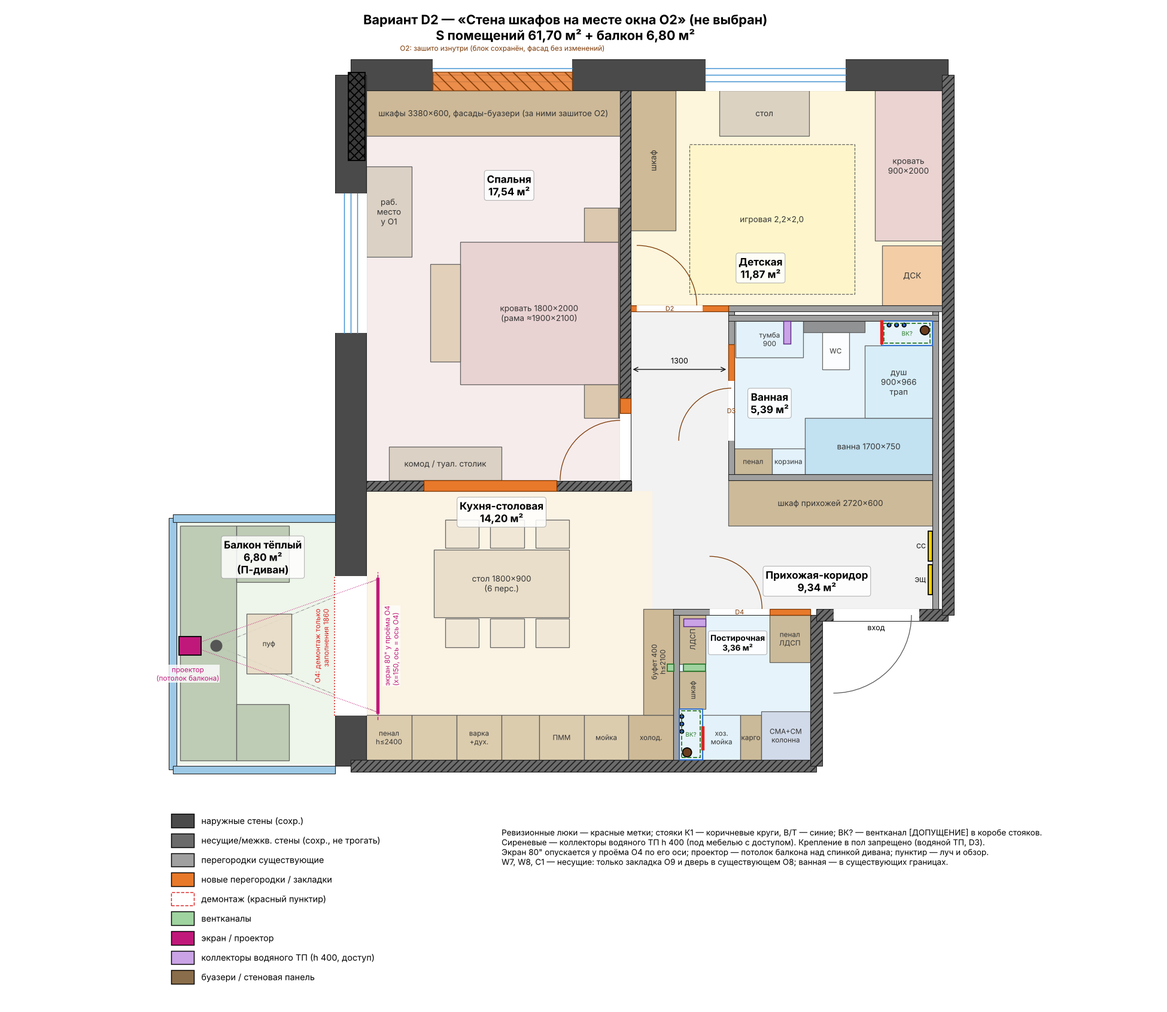
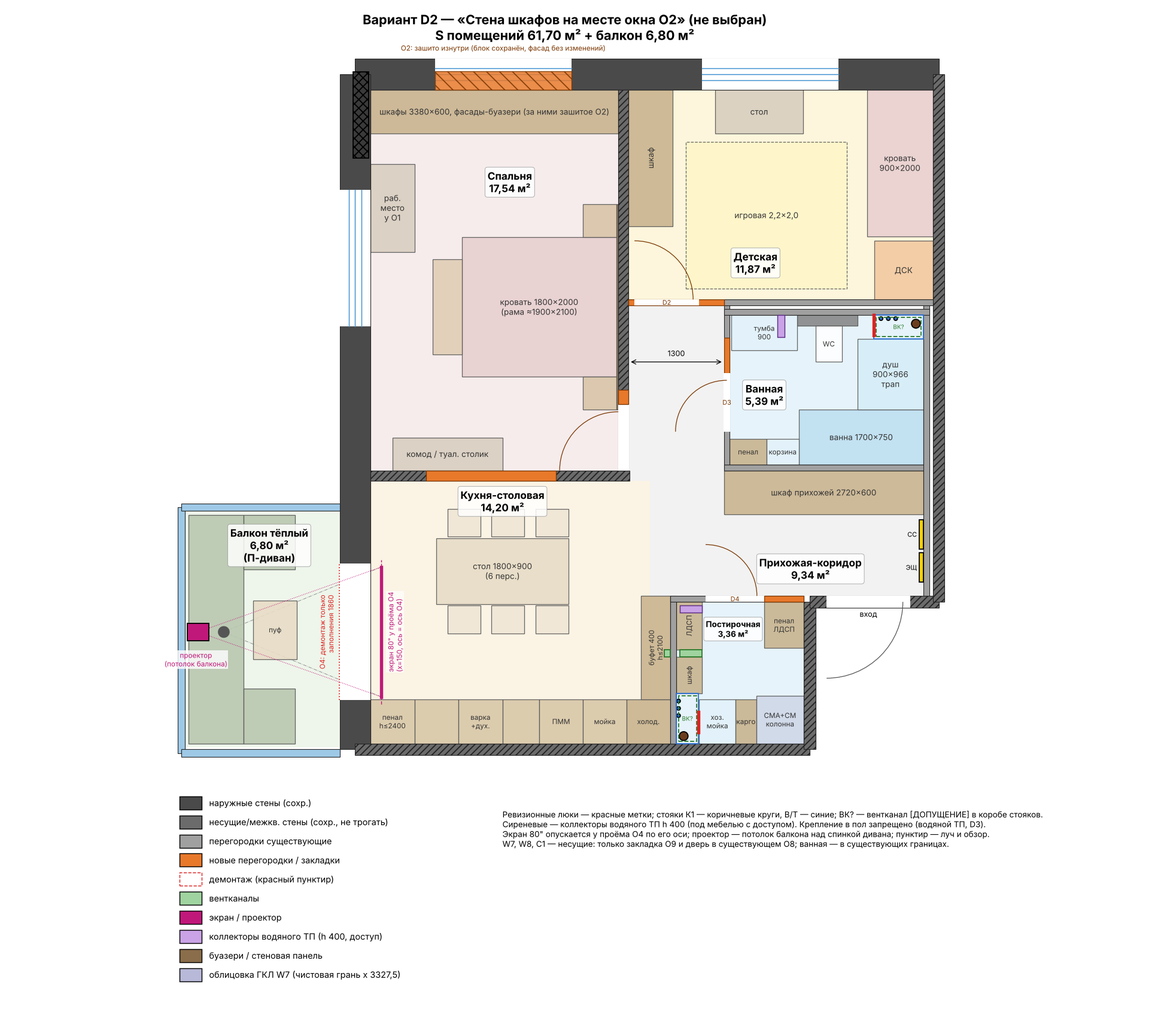
Design project: norm-control fixes in progress (finishes, planning, viz)
Claude-Session: https://claude.ai/code/session_011sUkeYXADW4VjjUfNdKrqY

diff --git a/apartment-project/tools/calc_sewer_slopes.py b/apartment-project/tools/calc_sewer_slopes.py
@@ -1,189 +1,171 @@
 #!/usr/bin/env python3
-"""pib-engineering: расчёт уклонов внутренней канализации (ВК) квартиры — вариант D1.
+"""pib-engineering: расчёт уклонов внутренней канализации (ВК), вариант планировки D1.
+
+Редакция 2026-10-10: решение D26 «трап в уровень с полом» (требование заказчика) + НК-05.
 
 Что считает:
-  * длину каждой трассы (по ломаной в плане + вертикальные участки не учитываются в уклоне);
-  * перепад при проектном уклоне, отметку лотка у прибора и у стояка;
-  * проверку «хватает ли напора» (лоток выпуска прибора ≥ лоток трассы в начале);
-  * проверку защитного слоя над трубой в подиуме (участки под полом, по которому ходят);
-  * проверку высоты цоколя мебели (участки в цоколях кухни/постирочной);
-  * чувствительность: какая отметка чистого пола ванной (подиум) нужна при разной
-    отметке лотка врезки в стояк К1 (отметка неизвестна — вопрос на обмер).
+  * трассы S1–S7: длина, перепад, лоток у прибора и у стояка, предельная отметка лотка
+    отвода тройника К1 («тройник ≤»), при которой прибор идёт самотёком;
+  * проектный уклон Ø50 — НОРМАЛЬНЫЙ 0,03 (СП 30.13330.2020, разд. 8); Ø110 — 0,02 (нормальный);
+    0,02 для Ø50 — только как допустимый минимум для S1 (L ≤ 0,3 м, в кармане/коробе, без поворотов
+    в горизонтали) и только если лоток U6 по обмеру не проходит при 0,03;
+  * сценарии пола ванной:
+      LEVEL (D26, база): сухая зона ±0 по существующей стяжке (−20) + пирог плитки 20;
+          в зоне душа и по трассе S1 до стояка — ЛОКАЛЬНЫЙ демонтаж стяжки до плиты (−100)
+          после тепловизора; уклон пола душа 1,5 % от линии стекла (±0) к линейному трапу;
+      WALL (D26, вариант 2): пристенный трап в облицовке VK-C1; демонтаж стяжки только в полосе
+          под облицовкой; пол душа по старой стяжке: −2 у стены … +10 на линии стекла;
+      PODIUM (D18, запасной): пол ванной +F, всё поверх стяжки −20;
+  * таблицу «лоток U6 → вариант».
 
-Отметки — мм от УЧП квартиры (±0.000 = плита +100). Верх существующей стяжки с водяным
-ТП = −20 (резать/штробить запрещено, D3/D4) → труба не может лежать ниже −20 + стенка.
-Нормы: СП 30.13330.2020 (уклоны: Ø50 — не менее 0,02 (норм. 0,03), Ø110 — не менее
-0,012 (норм. 0,02)); защитный слой над трубой в подиуме — принят 30 мм фиброармированной
-стяжки + 20 мм гидроизоляция/клей с матом ТП/плитка [ДОПУЩЕНИЕ, подтверждает pib-finishes].
-
-Запуск: python3 tools/calc_sewer_slopes.py   (печатает таблицы; функции импортирует gen_engineering.py)
+Отметки — мм от УЧП (±0.000 = плита +100). Плита −100, верх существующей стяжки −20.
+Запуск: python3 tools/calc_sewer_slopes.py
 """
 import math
 
-SCREED_TOP = -20          # верх существующей стяжки с водяным ТП
-COVER = 50                # над верхом трубы до чистого пола в подиуме (30 стяжка + 20 гидро/клей/плитка)
-PLINTH_TOP = 150          # верх зоны цоколя мебели (цоколь 160)
-TEE_ASSUMED = -20         # [ДОПУЩЕНИЕ] лоток отвода тройника К1 U1/U6 (обмер!)
-FFL_BATH = 80             # подиум ванной (planning.json D1)
-SHOWER_SLOPE = 0.015      # уклон пола душа к лотку
-SHOWER_ENTRY_X = 6641     # вход в душ (плоскость стекла) — отметка = пол ванной
-DRAIN_X = 7400            # ось линейного лотка (перед облицовкой W14 толщ. ≈ 95 с плиткой)
-TRAP_H = 70               # монтажная высота низкого трапа (верх решётки — низ корпуса), паспорт
-TRAP_OUT = 8              # лоток выпуска над низом корпуса трапа
-
-OD = {50: 50, 110: 110, 40: 40}
+SLAB = -100
+SCREED_TOP = -20
 WALL = 2
+PLINTH_TOP = 150
+I50, I50_MIN, I110 = 0.03, 0.02, 0.02
+SHOWER_SLOPE = 0.015
+SHOWER_ENTRY_X = 6641
+DRAIN_X = 7400            # ось линейного трапа у облицовки VK-C1 (грань x 7446)
+CLAD_X = 7446
+TRAP_OUT = 8              # лоток выпуска над низом корпуса трапа
+BEDDING = 5               # мин. подливка под корпус трапа
+TEE_ASSUMED = -80         # [ДОПУЩЕНИЕ] отвод тройника К1 на уровне стяжки застройщика (типично 1 этаж: −70…−90); обмер З-04 обязателен (ранее −20 — консервативно для D18)
+TRAP_H_BASE = 65          # база D26-1: ультраплоский трап H ≤ 65
+OD = {50: 50, 110: 110}
+
+# реальные серии низких/ультраплоских трапов — ориентировочно, СВЕРИТЬ ПО ПАСПОРТУ
+TRAPS = [
+    {"model": "Geberit CleanLine20/30 + монтажный комплект низкий", "h": 65, "dn": 40, "q_ls": 0.4, "type": "линейный в пол"},
+    {"model": "TECEdrainline + сифон плоский DN 40", "h": 67, "dn": 40, "q_ls": 0.5, "type": "линейный в пол / пристенный"},
+    {"model": "Alcadrain APZ1101 Low (низкий)", "h": 60, "dn": 40, "q_ls": 0.4, "type": "линейный в пол"},
+    {"model": "Pestan Confluo Premium / Frameless Line с низким сифоном", "h": 70, "dn": 40, "q_ls": 0.5, "type": "линейный в пол / у стены"},
+    {"model": "Viega Advantix Vario (низкий корпус)", "h": 70, "dn": 40, "q_ls": 0.4, "type": "линейный в пол, укорачиваемый"},
+    {"model": "Geberit настенный трап для душа в уровень с полом (в инсталляционной стене)", "h": 80, "dn": 50, "q_ls": 0.5, "type": "пристенный (вариант 2)"},
+]
 
 
-def shower_floor(x, ffl):
-    """Отметка чистого пола в душе (однонаправленный уклон к лотку у W14)."""
+def shower_floor(x, entry=0.0):
     if x <= SHOWER_ENTRY_X:
-        return ffl
-    return ffl - SHOWER_SLOPE * (min(x, DRAIN_X) - SHOWER_ENTRY_X)
+        return entry
+    return entry - SHOWER_SLOPE * (min(x, DRAIN_X) - SHOWER_ENTRY_X)
 
 
-def bath_floor(x, y, ffl):
-    if 6641 <= x <= 7541 and 4550 <= y <= 5516:
-        return shower_floor(x, ffl)
-    return ffl
-
-
-def lines(ffl=FFL_BATH):
-    """Трассы. path: [(x, y, kind_next)], kind — тип участка до следующей точки:
-    free — под ванной / в коробе / в облицовке / в инсталляции (только ограничение по стяжке);
-    podium — под полом с/у, по которому ходят (защитный слой); plinth — в цоколе мебели;
-    trap — узел трапа. z_out — лоток выпуска прибора (абс.)."""
-    grate = shower_floor(DRAIN_X, ffl)
+def bath_lines(ffl, scenario, trap_h=70, i_shower=I50):
+    """Трассы ванной. ffl — отметка сухой зоны ванной; z_min — нижний предел лотка на трассе."""
+    if scenario == "WALL":
+        grate = -2.0                               # пол у стены по старой стяжке
+        z_min_s1 = SLAB + WALL                     # полоса под облицовкой демонтирована до плиты
+    else:
+        grate = shower_floor(DRAIN_X, ffl)
+        z_min_s1 = (SLAB + WALL) if scenario == "LEVEL" else (SCREED_TOP + WALL)
+    trap_bottom = grate - trap_h
     return [
-        dict(id="S1", fixture="P04 душ: низкий линейный трап у облицовки W14 (выпуск у северного торца)",
-             riser="U6", dn=50, i=0.02, z_out=round(grate - TRAP_H + TRAP_OUT, 1),
-             trap_bottom=round(grate - TRAP_H, 1), grate=round(grate, 1),
-             path=[(7400, 5440, "trap"), (7400, 5516, "free"), (7400, 5666, "free"), (7438, 5666, None)],
-             note="выпуск трапа сразу в короб U10 через грань y=5516; в стояк — в нижнюю точку (эксцентрический переход 110/50, лотки совмещены)"),
-        dict(id="S2", fixture="P03 ванна: сифон у правого торца (x≈7350) → под ванной → в облицовке W14 → короб U10",
-             riser="U6", dn=50, i=0.02, z_out=ffl + 70,
-             path=[(7350, 4175, "free"), (7490, 4175, "free"), (7490, 4550, "free"), (7490, 5516, "free"),
-                   (7490, 5600, "free"), (7438, 5600, "free"), (7438, 5666, None)],
-             note="участок y 4550..5516 — в полости облицовки W14 (душ), под полом не проходит; без соединений в облицовке"),
-        dict(id="S3", fixture="P01 унитаз подвесной (инсталляция, ось x 6250)",
-             riser="U6", dn=110, i=0.02, z_out=ffl + 230 - 55,
-             path=[(6250, 5770, "free"), (6750, 5770, "free"), (6750, 5640, "free"), (7383, 5640, None)],
-             note="в коробе инсталляции и низком коробе-перемычке x 6641..6863 (h до +450 от пола ванной); обход стояков В1/Т3/Т4 (y 5791) с юга"),
-        dict(id="S4", fixture="P02 раковина в тумбе 900 (выпуск +550 от пола ванной)",
-             riser="U6", dn=50, i=0.02, z_out=ffl + 550,
-             path=[(5250, 5815, "free"), (6700, 5815, "free"), (6700, 5640, "free"), (7383, 5640, None)],
-             note="за тумбой над коллектором U14 (верх +400 УЧП) и в коробе инсталляции; над U14 зазор ≥ 50"),
-        dict(id="S5", fixture="P06 мойка кухни (+ ПММ через сифон мойки)",
-             riser="U1", dn=50, i=0.02, z_out=450,
-             path=[(2490, 60, "plinth"), (4090, 60, "free"), (4216, 60, "free"), (4216, 101, None)],
-             note="в цоколе вдоль W3 (W3 не штробить — стена МОП), за ПММ и пеналом холодильника, через W10 (гильза) в короб U5"),
-        dict(id="S6", fixture="P09 хозмойка 450 (выпуск на грани короба U5)",
-             riser="U1", dn=50, i=0.02, z_out=450,
-             path=[(4475, 450, "free"), (4326, 450, "free"), (4326, 101, None)],
-             note="внутри короба U5"),
-        dict(id="S7", fixture="P10 СМА (сифон в карго, + конденсат сушильной машины)",
-             riser="U1", dn=50, i=0.02, z_out=560,
-             path=[(5170, 60, "plinth"), (4475, 60, "free"), (4326, 101, None)],
-             note="в цоколе карго/тумбы хозмойки вдоль W3; вариант — в бывший выпуск WC Ø110 через переход 110/50 под карго"),
+        dict(id="S1", fixture="P04 душ: линейный трап (выпуск у северного торца) → короб U10" if scenario != "WALL" else "P04 душ: пристенный трап в VK-C1 → короб U10",
+             riser="U6", dn=50, i=i_shower, z_out=round(trap_bottom + TRAP_OUT, 1), grate=round(grate, 1), trap_bottom=round(trap_bottom, 1),
+             z_min=z_min_s1, path=[(DRAIN_X if scenario != "WALL" else 7490, 5440), (7400, 5516), (7400, 5666), (7438, 5666)],
+             note="выпуск сразу в короб U10; в стояк — в нижнюю точку (эксцентрический переход 110/50, лотки совмещены)"),
+        dict(id="S2", fixture="P03 ванна: сифон у правого торца → под ванной → полость облицовки VK-C1 → короб U10",
+             riser="U6", dn=50, i=I50, z_out=ffl + 70, z_min=(SLAB + WALL) if scenario in ("LEVEL", "WALL") else (SCREED_TOP + WALL),
+             path=[(7350, 4175), (7490, 4175), (7490, 4550), (7490, 5516), (7490, 5600), (7438, 5600), (7438, 5666)],
+             note="под ванной (ванна на ножках, экран с ревизией H6) и в полости облицовки — под полом не проходит"),
+        dict(id="S3", fixture="P01 унитаз подвесной (инсталляция, ось x 6250)", riser="U6", dn=110, i=I110, z_out=ffl + 230 - 55,
+             z_min=SCREED_TOP + WALL, path=[(6250, 5770), (6750, 5770), (6750, 5640), (7383, 5640)],
+             note="короб инсталляции → короб-перемычка VK-C2 → U10; обход стояков В1/Т3/Т4 с юга"),
+        dict(id="S4", fixture="P02 раковина в тумбе 900 (выпуск +550)", riser="U6", dn=50, i=I50, z_out=ffl + 550,
+             z_min=SCREED_TOP + WALL, path=[(5250, 5815), (6700, 5815), (6700, 5640), (7383, 5640)],
+             note="за тумбой над коллектором U14 (зазор ≥ 50) и в коробе инсталляции"),
     ]
 
 
-def seg_len(p, q):
-    return math.hypot(q[0] - p[0], q[1] - p[1])
+def other_lines():
+    return [
+        dict(id="S5", fixture="P06 мойка кухни (+ ПММ через сифон)", riser="U1", dn=50, i=I50, z_out=450, z_min=SCREED_TOP + WALL, plinth=True,
+             path=[(2490, 60), (4090, 60), (4216, 60), (4216, 101)],
+             note="в цоколе вдоль W3 (основание 620, K-06), через W10 в короб U5; W3 не штробить"),
+        dict(id="S6", fixture="P09 хозмойка 450", riser="U1", dn=50, i=I50, z_out=450, z_min=SCREED_TOP + WALL,
+             path=[(4475, 450), (4326, 450), (4326, 101)], note="внутри короба U5"),
+        dict(id="S7", fixture="P10 СМА + конденсат СМ", riser="U1", dn=50, i=I50, z_out=560, z_min=SCREED_TOP + WALL, plinth=True,
+             path=[(5170, 60), (4475, 60), (4326, 101)], note="в цоколе карго/тумбы хозмойки; вариант — старый выпуск WC через 110/50"),
+    ]
 
 
-def evaluate(line, tee=TEE_ASSUMED, ffl=FFL_BATH):
-    od, i = OD[line["dn"]], line["i"]
-    pts = line["path"]
-    L = sum(seg_len(pts[k], pts[k + 1]) for k in range(len(pts) - 1)) / 1000
-    z_floor_min = SCREED_TOP + WALL           # лоток не ниже, чем стяжка + стенка
-    z_end = max(tee, z_floor_min)             # у стояка: если тройник ниже — вертикальный спуск в коробе
-    z_start = z_end + i * L * 1000
-    head = line["z_out"] - z_start            # запас напора у прибора (≥ 0 — самотёк)
-    # проверки по участкам
-    viol_cover, viol_plinth = 0.0, 0.0
-    s = 0.0
-    for k in range(len(pts) - 1):
-        p, q, kind = pts[k], pts[k + 1], pts[k][2]
-        l = seg_len(p, q)
-        for t in (0.0, 0.5, 1.0):
-            x, y = p[0] + (q[0] - p[0]) * t, p[1] + (q[1] - p[1]) * t
-            inv = z_start - i * (s + l * t)
-            if kind == "podium":
-                need = inv + od + COVER - bath_floor(x, y, ffl)
-                viol_cover = max(viol_cover, need)
-            if kind == "plinth":
-                viol_plinth = max(viol_plinth, inv + od - PLINTH_TOP)
-        s += l
-    ok = head >= 0 and viol_cover <= 0 and viol_plinth <= 0
-    if "trap_bottom" in line and line["trap_bottom"] < SCREED_TOP:
-        ok = False
-    return dict(L=round(L, 2), drop=round(i * L * 1000, 1), z_out=round(line["z_out"], 1),
-                z_start=round(z_start, 1), z_end=round(z_end, 1), head=round(head, 1),
-                tee_max=round(line["z_out"] - i * L * 1000, 1),
-                cover_short=round(max(viol_cover, 0), 1), plinth_over=round(max(viol_plinth, 0), 1), ok=ok)
+def length(pts):
+    return sum(math.hypot(b[0] - a[0], b[1] - a[1]) for a, b in zip(pts, pts[1:])) / 1000
 
 
-def podium_required(tee, step=5):
-    """Минимальная отметка пола ванной, при которой все приборы ванной (U6) идут самотёком."""
-    for ffl in range(60, 205, step):
-        good = True
-        for ln in lines(ffl):
-            if ln["riser"] != "U6":
-                continue
-            r = evaluate(ln, tee, ffl)
-            if not r["ok"]:
-                good = False
-                break
-        if good:
-            return ffl
-    return None
+def evaluate(ln, tee=TEE_ASSUMED):
+    L = length(ln["path"])
+    drop = ln["i"] * L * 1000
+    tee_max = ln["z_out"] - drop                       # предельный лоток тройника для самотёка
+    z_end = max(tee, ln["z_min"])                      # фактически у стояка (ниже — вертикальный спуск в коробе)
+    z_start = z_end + drop
+    ok = z_start <= ln["z_out"] and tee <= tee_max
+    plinth_ok = True
+    if ln.get("plinth"):
+        plinth_ok = z_start + OD[ln["dn"]] <= PLINTH_TOP
+        ok = ok and plinth_ok
+    if "trap_bottom" in ln:
+        ok = ok and ln["trap_bottom"] >= SLAB + BEDDING if ln["z_min"] < SCREED_TOP else ok and ln["trap_bottom"] >= SCREED_TOP
+    return dict(L=round(L, 2), drop=round(drop, 1), z_out=round(ln["z_out"], 1), z_start=round(z_start, 1), z_end=round(z_end, 1),
+                tee_max=round(tee_max, 1), head=round(ln["z_out"] - z_start, 1), plinth_ok=plinth_ok, ok=ok)
 
 
-def bath_via_floor_check(ffl=FFL_BATH, tee=TEE_ASSUMED):
-    """Отклонённый вариант: ванна (сифон у левого торца, как в furniture F66) поперёк сухой зоны
-    к коробу инсталляции — показывает, почему трасса перенесена в облицовку W14."""
-    ln = dict(id="S2x", fixture="ванна поперёк пола к инсталляции (отклонено)", riser="U6", dn=50, i=0.02,
-              z_out=ffl + 70,
-              path=[(5990, 4175, "free"), (5990, 4550, "podium"), (5990, 5691, "free"), (6750, 5691, "free"),
-                    (6750, 5640, "free"), (7383, 5640, None)])
-    r = evaluate(ln, tee, ffl)
-    # минимальный пол для этого варианта
-    need = None
-    for f in range(60, 260, 5):
-        ln["z_out"] = f + 70
-        if evaluate(ln, tee, f)["ok"]:
-            need = f
-            break
-    r["ffl_needed"] = need
-    return r
+def s1_limit(scenario, trap_h, i, ffl=0):
+    ln = bath_lines(ffl, scenario, trap_h, i)[0]
+    r = evaluate(ln)
+    fits = ln["trap_bottom"] >= (SLAB + BEDDING if scenario in ("LEVEL", "WALL") else SCREED_TOP)
+    return dict(scenario=scenario, trap_h=trap_h, i=i, grate=ln["grate"], trap_bottom=ln["trap_bottom"], z_out=ln["z_out"],
+                tee_max=r["tee_max"], trap_fits=fits)
+
+
+def podium_formula(tee, trap_h=65, i=I50):
+    """D18-тип: пол ванной F поверх старой стяжки. Требуется F ≥ tee + ΔS1 и низ трапа ≥ −20."""
+    s1_len = length(bath_lines(0, "PODIUM")[0]["path"])
+    grate_off = SHOWER_SLOPE * (DRAIN_X - SHOWER_ENTRY_X)
+    f_tee = tee + i * s1_len * 1000 + trap_h - TRAP_OUT + grate_off
+    f_trap = SCREED_TOP + trap_h + grate_off
+    return math.ceil(max(f_tee, f_trap) / 5) * 5
 
 
 def report():
-    out = {"assumptions": {"screed_top": SCREED_TOP, "cover_over_pipe": COVER, "tee_invert_assumed": TEE_ASSUMED,
-                           "ffl_bath": FFL_BATH, "shower_slope": SHOWER_SLOPE, "trap_install_height": TRAP_H},
-           "lines": [], "sensitivity": [], "rejected_bath_route": bath_via_floor_check()}
-    for ln in lines():
+    base = [*bath_lines(0, "LEVEL", TRAP_H_BASE), *other_lines()]
+    lines = []
+    for ln in base:
         r = evaluate(ln)
-        out["lines"].append({**{k: ln[k] for k in ("id", "fixture", "riser", "dn", "i", "note")},
-                             "path": [[p[0], p[1]] for p in ln["path"]], **r,
-                             **({"grate": ln["grate"], "trap_bottom": ln["trap_bottom"]} if "grate" in ln else {})})
-    for tee in (-60, -40, -20, 0, 20, 40, 60):
-        out["sensitivity"].append({"tee_invert": tee, "ffl_bath_required": podium_required(tee),
-                                   "laundry_kitchen_ok": all(evaluate(l, tee)["ok"] for l in lines() if l["riser"] == "U1")})
-    return out
+        lines.append({**{k: ln[k] for k in ("id", "fixture", "riser", "dn", "i", "note")}, "path": [list(p) for p in ln["path"]], **r,
+                      **({"grate": ln["grate"], "trap_bottom": ln["trap_bottom"]} if "grate" in ln else {})})
+    limits = [s1_limit("LEVEL", h, i) for h in (60, 65, 70) for i in (I50, I50_MIN)] + \
+             [s1_limit("WALL", 80, i) for i in (I50, I50_MIN)]
+    lv = {(l["trap_h"], l["i"]): l["tee_max"] for l in limits if l["scenario"] == "LEVEL"}
+    wl = {l["i"]: l["tee_max"] for l in limits if l["scenario"] == "WALL"}
+    table = [
+        {"tee_u6": f"≤ {lv[(70, I50)]:+.0f}", "solution": "D26-1: пол ±0, линейный трап H ≤ 70 (любая из серий), S1 i = 0,03", "pump": False, "podium": 0},
+        {"tee_u6": f"{lv[(70, I50)]:+.0f} … {lv[(65, I50)]:+.0f}", "solution": "D26-1: пол ±0, трап H ≤ 65 (Geberit CleanLine низкий / Alcadrain Low), S1 i = 0,03", "pump": False, "podium": 0},
+        {"tee_u6": f"{lv[(65, I50)]:+.0f} … {lv[(60, I50_MIN)]:+.0f}", "solution": "D26-1: пол ±0, трап H 60–65, S1 i = 0,02 (допустимый минимум, L 0,26 м, обоснование — plumbing.json)", "pump": False, "podium": 0},
+        {"tee_u6": f"> {lv[(60, I50_MIN)]:+.0f}", "solution": "D26-3: пол ±0, трап H ≤ 70 + насос SFA Sanishower Flat в кармане на плите; ИЛИ (выбор заказчика) подиум по формуле F ≥ лоток + 76 (H 65, i 0,03): лоток −40 → +40, −20 → +60, 0 → +80, +20 → +100", "pump": True, "podium": "по формуле"},
+        {"tee_u6": "контуры ТП в зоне душа, полоса у W14 свободна", "solution": f"D26-2: пристенный трап в VK-C1 (демонтаж только полосы 95 под облицовкой), лоток U6 ≤ {wl[I50]:+.0f} (0,03) / {wl[I50_MIN]:+.0f} (0,02); пол душа −2 у стены … +10 у стекла", "pump": False, "podium": 0},
+        {"tee_u6": "контуры ТП и в зоне душа, и у W14", "solution": f"пол в уровень невозможен: запасной D18 — подиум F ≥ лоток + 81 (поверх стяжки), при лотке −20 → +{podium_formula(-20)}; насос не помогает (нет глубины под корпус трапа)", "pump": False, "podium": "D18"},
+    ]
+    return {"assumptions": {"slab": SLAB, "screed_top": SCREED_TOP, "tee_invert_assumed": TEE_ASSUMED, "i_50": I50, "i_50_min": I50_MIN, "i_110": I110,
+                            "shower_slope": SHOWER_SLOPE, "bath_floor_dry": 0, "trap_out_above_bottom": TRAP_OUT, "trap_h_base": TRAP_H_BASE},
+            "lines": lines, "s1_limits": limits, "tee_table": table, "traps": TRAPS,
+            "podium_examples": {t: podium_formula(t) for t in (-60, -40, -20, 0, 20)}}
 
 
 if __name__ == "__main__":
     R = report()
-    print("Допущения:", R["assumptions"])
-    print(f"{'id':4} {'Ø':>4} {'L,м':>5} {'i':>5} {'Δh':>5} {'лоток пр.':>9} {'нач.трассы':>10} {'у стояка':>8} {'запас':>6} {'тройник≤':>8} ok")
+    print(f"{'id':4} {'Ø':>4} {'L,м':>5} {'i':>5} {'Δh':>5} {'лоток пр.':>9} {'тройник≤':>9} ok")
     for r in R["lines"]:
-        print(f"{r['id']:4} {r['dn']:>4} {r['L']:>5} {r['i']:>5} {r['drop']:>5} {r['z_out']:>9} {r['z_start']:>10} "
-              f"{r['z_end']:>8} {r['head']:>6} {r['tee_max']:>8} {r['ok']}  {r['fixture']}")
-    s1 = R["lines"][0]
-    print(f"Душ: решётка {s1['grate']}, низ трапа {s1['trap_bottom']} (≥ {SCREED_TOP})")
-    print("Отклонённая трасса ванны поперёк пола:", R["rejected_bath_route"])
-    print("Чувствительность к отметке лотка врезки К1:")
-    for s in R["sensitivity"]:
-        print(f"  лоток тройника {s['tee_invert']:>4} → пол ванной ≥ +{s['ffl_bath_required']}; U1 (кухня/постирочная) ok: {s['laundry_kitchen_ok']}")
+        print(f"{r['id']:4} {r['dn']:>4} {r['L']:>5} {r['i']:>5} {r['drop']:>5} {r['z_out']:>9} {r['tee_max']:>9} {r['ok']}  {r['fixture']}")
+    print("Пределы S1:")
+    for l in R["s1_limits"]:
+        print("  ", l)
+    print("Лоток U6 → вариант:")
+    for t in R["tee_table"]:
+        print("  ", t["tee_u6"], "→", t["solution"])
+    print("Подиум D18 при лотке:", R["podium_examples"])

diff --git a/apartment-project/tools/gen_planning.py b/apartment-project/tools/gen_planning.py
@@ -535,13 +535,14 @@ def keo_d1():
                         "[ДОПУЩЕНИЕ] m_N = 1,0: для жилых комнат нормируемое значение 0,5 % принято без поправки на световой климат СПб; ориентация ЮВ на КЕО не влияет (учтена в инсоляции)",
                         "Противостоящая застройка у фасада W1 неизвестна (1 этаж) — расчёт выполнен для набора сценариев"],
         "results": res, "improvements": improved,
-        "verdict": ("Без затенения КЕО ≈ 0,74 % ≥ 0,5 % — норма выполнена. Порог: противостоящее 4-этажное здание (≈ 12 м над полом) должно быть не ближе ≈ 30 м "
-                    "(при 3 этажах — ≈ 25 м). При более плотной застройке (4 эт. на 25 м — 0,44 %; плотный двор 20 м — 0,16 %) — недобор."),
+        "verdict": (f"Без затенения КЕО ≈ {str(res[0]['keo_pct']).replace('.', ',')} % ≥ 0,5 % — норма выполнена. Порог: противостоящее 4-этажное здание (≈ 12 м над полом) — не ближе ≈ 30 м "
+                    f"({str(res[3]['keo_pct']).replace('.', ',')} %); 3-этажное на 30 м — {str(res[1]['keo_pct']).replace('.', ',')} %. При более плотной застройке — недобор: 4 эт. на 25 м — {str(res[4]['keo_pct']).replace('.', ',')} %, "
+                    f"плотный двор 20 м — {str(res[5]['keo_pct']).replace('.', ',')} %."),
         "recommendations_if_short": [
             "1) Главная мера: не зашивать O1 (фасад СВ) — спальня получает второе окно, КЕО в расчётной точке выполняется с запасом; или вернуться к D2 (зашить O2, оставить O1, глубина 3,38 м).",
-            "2) Светлая отделка спальни ρ ≥ 0,7 (стены, потолок, пол светлый) — r_o ≈ 2,6; стеклопакет с τ ≥ 0,8 (однокамерный энергосберегающий/осветлённое стекло, без импостов) — τ_o ≈ 0,60: при 4 эт. на 25 м даёт ≈ 0,63 % — норма выполняется; при плотном дворе (20 м) — 0,37 %, этих мер недостаточно.",
+            f"2) Светлая отделка спальни ρ ≥ 0,7 (стены, потолок, пол светлый) — r_o ≈ 2,6; стеклопакет с осветлённым стеклом/энергосберегающий с τ ≥ 0,8, без импостов — τ_o ≈ 0,60: при 4 эт. на 25 м даёт ≈ {str(improved[0]['keo_pct']).replace('.', ',')} % — норма выполняется; при плотном дворе (20 м) — {str(improved[1]['keo_pct']).replace('.', ',')} %, этих мер недостаточно.",
             "3) Скошенные (раскрытые на 15–20°) внутренние откосы O2 — +5–10 % к ε_б.",
-            "Решение — после фото/описания застройки напротив фасада W1 (questions №53-ПЛ, см. questions.md); зашивка O1 обратима — выполнять после подтверждения."],
+            "Решение — после ответа о застройке напротив фасада W1 (questions №58); зашивка O1 обратима — выполнять после подтверждения."],
     }
 
 
@@ -967,7 +968,7 @@ def draw(o, path):
           ("#a0a0a0", "перегородки существующие"), ("#e8792b", "новые перегородки / закладки"),
           ("white", "демонтаж (красный пунктир)"), ("#9fd39f", "вентканалы"), ("#c0187a", "экран / проектор")]
     if o["option"].startswith("D"):
-        lg += [("#c9a3e6", "коллекторы водяного ТП (h 400, доступ)"), ("#8a6d4b", "буазери / стеновая панель")]
+        lg += [("#c9a3e6", "коллекторы водяного ТП (h 400, доступ)"), ("#8a6d4b", "буазери / стеновая панель"), ("#b8b8d8", "облицовка ГКЛ W7 (чистовая грань x 3327,5)")]
     for i, (c, t) in enumerate(lg):
         y = -900 - i * 260
         ax.add_patch(Rectangle((-2600, y), 300, 180, fc=c, ec="#d22" if "демонтаж" in t else "k", ls="--" if "демонтаж" in t else "-", lw=0.8))
@@ -980,7 +981,7 @@ def draw(o, path):
     ax.set_title(o["title"] + f"\nS помещений {ar['sum_without_balcony']:.2f} м² + балкон {ar['balcony_bti']:.2f} м²".replace(".", ","),
                  fontsize=12, weight="bold")
     ax.set_xlim(-2800, 8100)
-    ax.set_ylim(-3200 if o["option"].startswith("D") else -2900, 9500)
+    ax.set_ylim(-3500 if o["option"].startswith("D") else -2900, 9500)
     ax.axis("off")
     fig.tight_layout()
     fig.savefig(path, dpi=130)
